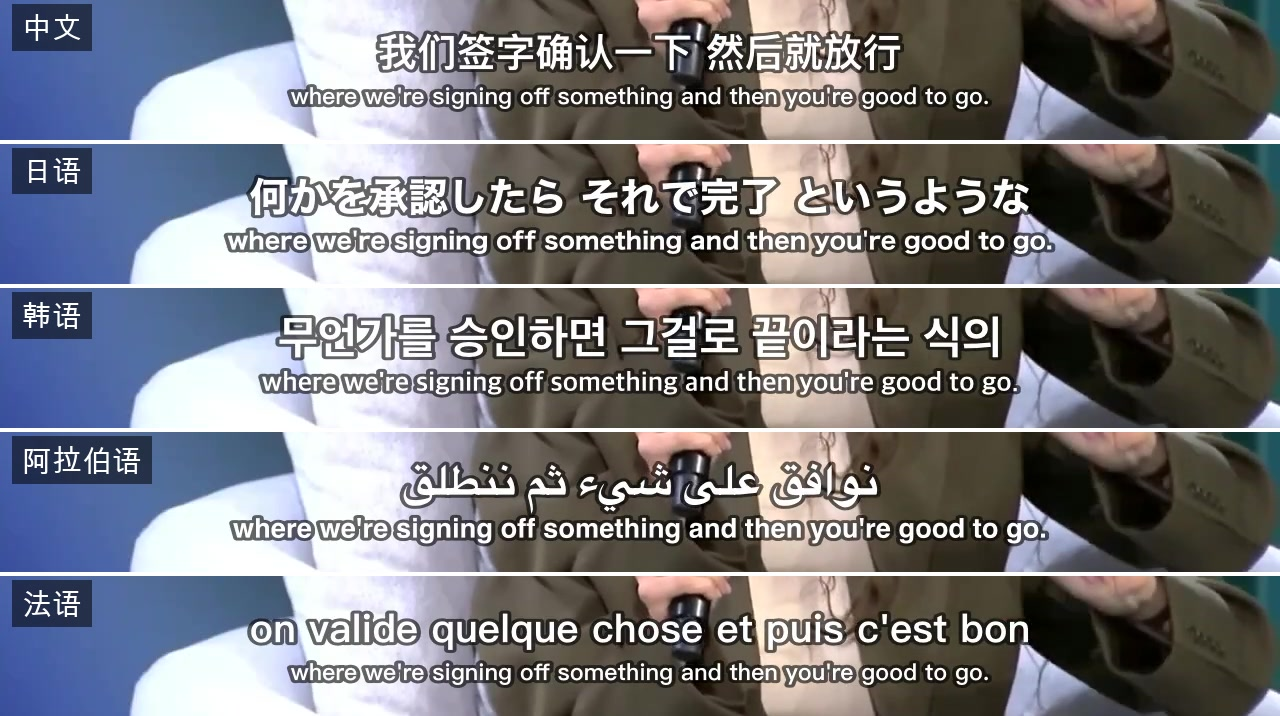
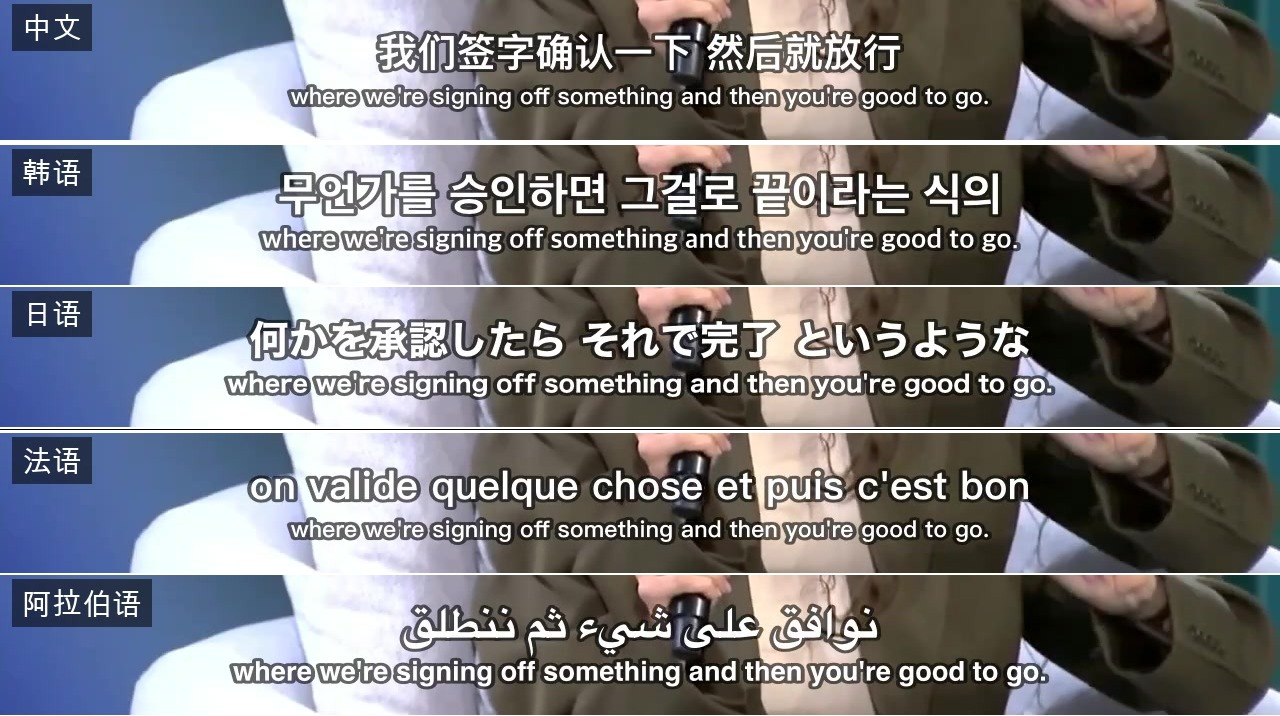
docs: 调整演示图语种顺序为中韩日法阿

diff --git a/README.md b/README.md
@@ -55,7 +55,7 @@
 
 ### 演示案例
 
-同一段 a16z 英文访谈，翻成中 / 日 / 韩 / 阿 / 法 5 种语言的双语字幕——各语种译文在上、英文原文在下，从右往左书写的阿拉伯语也排得整整齐齐：
+同一段 a16z 英文访谈，翻成中 / 韩 / 日 / 法 / 阿 5 种语言的双语字幕——各语种译文在上、英文原文在下，从右往左书写的阿拉伯语也排得整整齐齐：
 
 ![多语言双语字幕对比](assets/demo-multilang.jpg)
 
